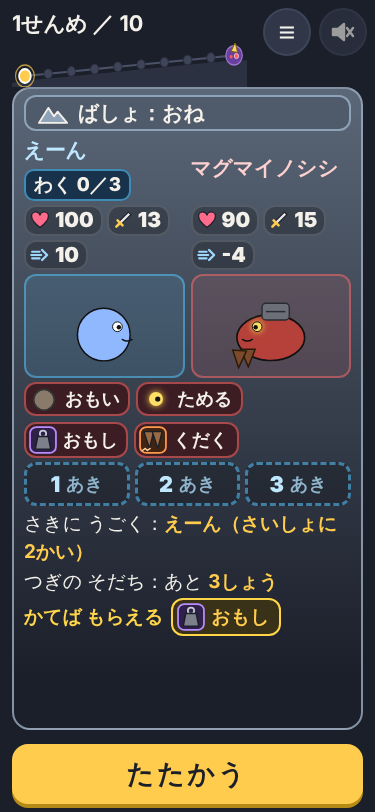
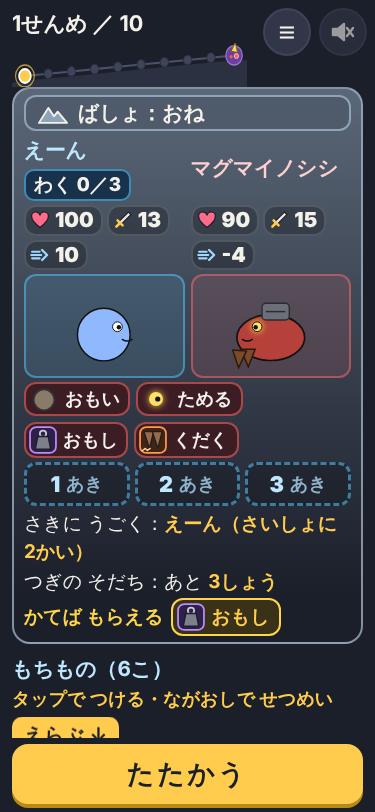
next：Codex PR #14（P2）：スマホの バトル前は 効き目の 文を もちものの 下へ（最初の 画面で もちものが 見える まま、文の 行数で ずれない）
Claude-Session: https://claude.ai/code/session_01MmzYoSEzkD1PgFfWTrviwe

diff --git a/next/index.html b/next/index.html
@@ -995,8 +995,8 @@ html.eshort .shu-info .if-head, html.eshort .shu-info .sub { display: none; }
 .kv-line b { color: var(--accent); }
 .kv-line:empty { display: none; }
 .kv-note { color: var(--accent); font-weight: 700; grid-column: 1 / -1; }
-/* 決定 17-a：スマホは つけた パーツの 文が ここに 出る（1〜3行）。行の 数で 下の もちものが 上下に 動かないように 3行ぶん とっておく */
-@media (max-width: 899px) { #pre .kv-note, #pre .kv-note:empty { display: block; min-height: calc(4.35em + 2px); } }
+/* 決定 17-a：スマホは つけた パーツの 文（#note）を もちものの 下へ 移す（showPre）。行の 数で もちものが 上下に 動かないように */
+#pre .kv-handcol > #note { margin-top: 8px; }
 @media (max-width: 899px) { #pre #firstTxt { min-height: calc(2.9em + 1px); } } /* 「さきに うごく」は つけた パーツで 1行／2行 に かわる */
 .kv-reward { grid-column: 1 / -1; }
 .kv-handcol { display: flex; flex-direction: column; gap: 5px; min-height: 0; }
@@ -2434,6 +2434,9 @@ html.eshort .shu-info .if-head, html.eshort .shu-info .sub { display: none; }
     renderPlist();
     $('kvHow').textContent = howText();
     infoEmpty('preInfo', (canHover() && !narrow() ? 'もちものに マウスを あわせると せつめい。クリックで つける（つけた ものを クリックで はずす）' : 'もちものを タップで つける（もう 1かいで はずす）。ながおしで せつめい') + '。した の 線は なれ（たまると ひらめく）');
+    // 決定 17-a：スマホ（せまい）は 効き目の 文を もちものの 下に。文が 1〜3行 かわっても もちものが 動かない
+    var noteEl = $('note'), noteHome = narrow() ? document.querySelector('#pre .kv-handcol') : document.querySelector('#pre .kv-lines');
+    if (noteEl.parentNode !== noteHome) noteHome.appendChild(noteEl);
     show('pre');
     if (OPT.auto) {
       setTimeout(function () {
